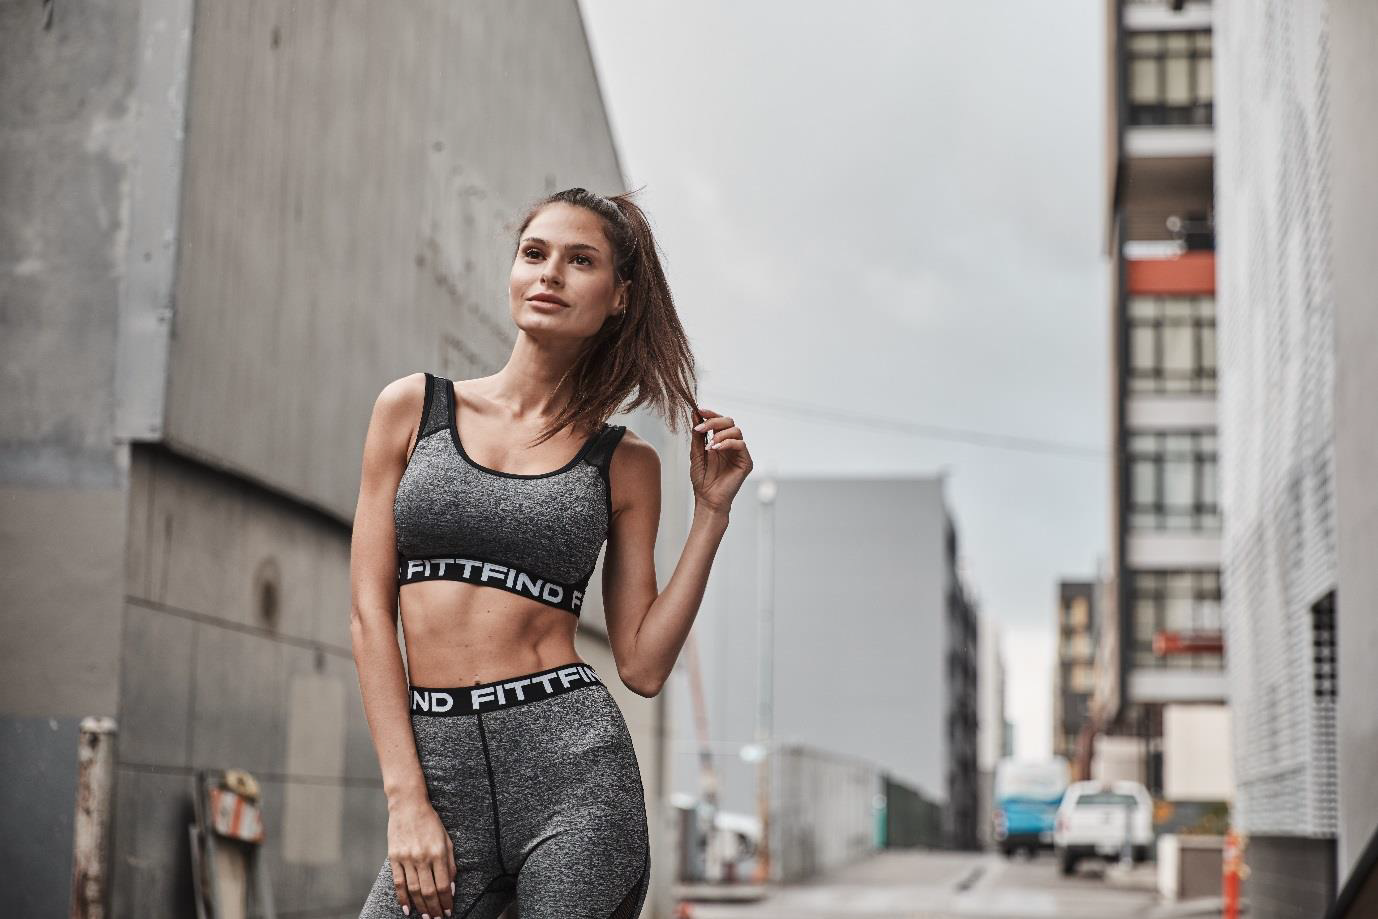
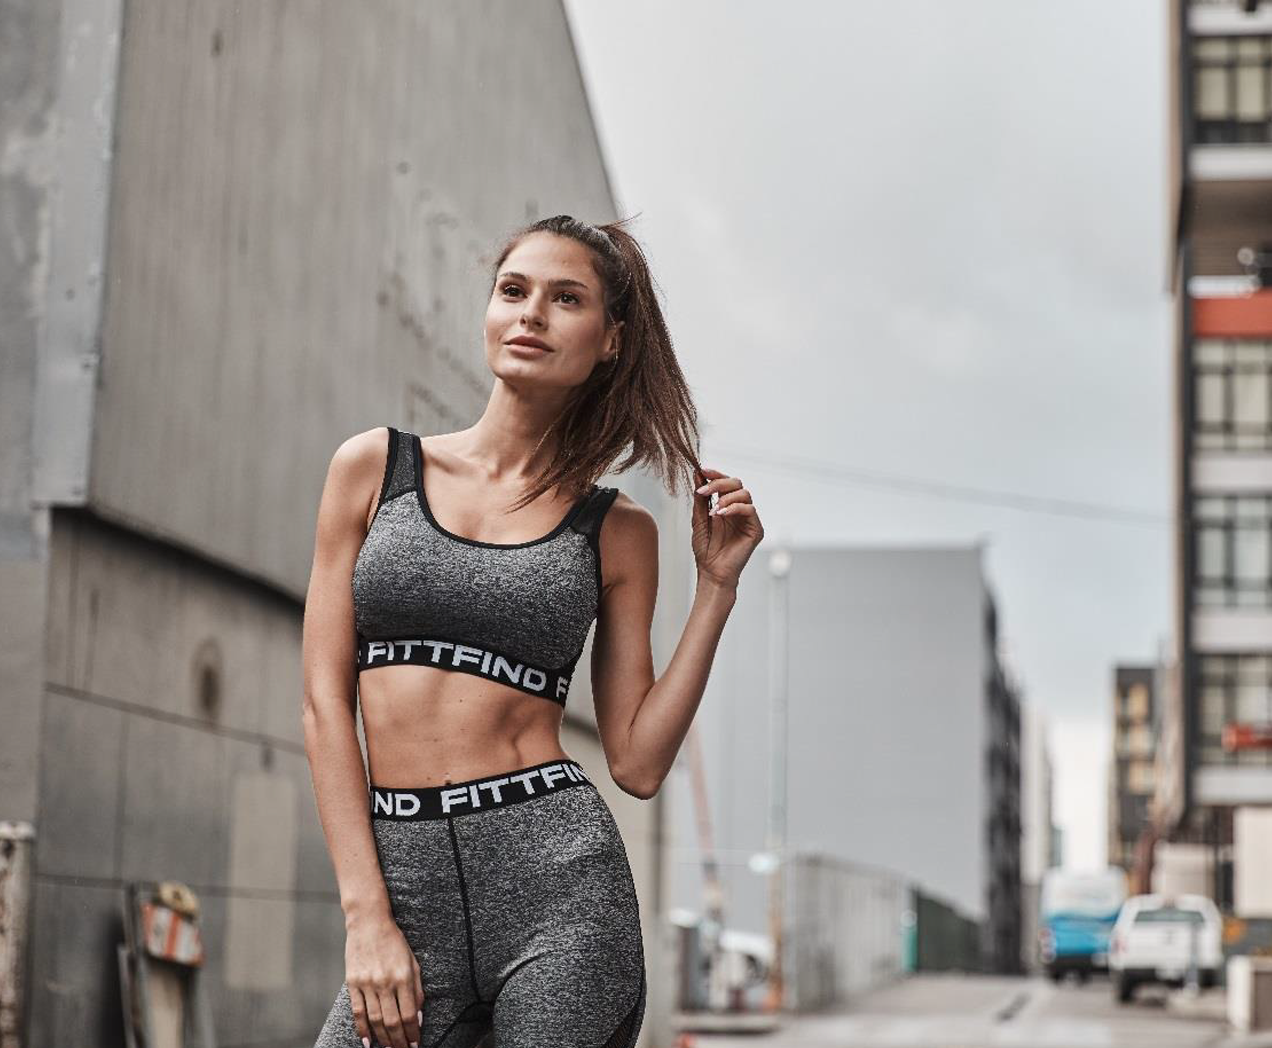
app FIXED

diff --git a/src/styles/application.css b/src/styles/application.css
@@ -5,6 +5,7 @@
     background-image: url("../images/background-blue-imag.jpg");
 }
 .section-hero-application-img {
+    width: 95vw;
     max-width: 90vw;
     margin-right: 4vw;
     pointer-events: none;
@@ -88,6 +89,12 @@ img.app-store-button-img {
     height: 3px;
     margin-left: 29px;
     margin-bottom: 4px;
+}
+img.section-application-video-img {
+    width: 42vw;
+}
+img.section-application-motivation-banner-girl {
+    width: 69vw;
 }
 
 .section-apps {
@@ -230,7 +237,7 @@ span.section-apps-right-span-2 {
     margin-bottom: 6vw;
     align-self: flex-end;
     background-color: #055595;
-    padding: 170px 300px 200px 300px;
+    padding: 170px 250px 200px 250px;
 }
 .section-application-motivation-banner-2 {
     margin-top: 8vw;
